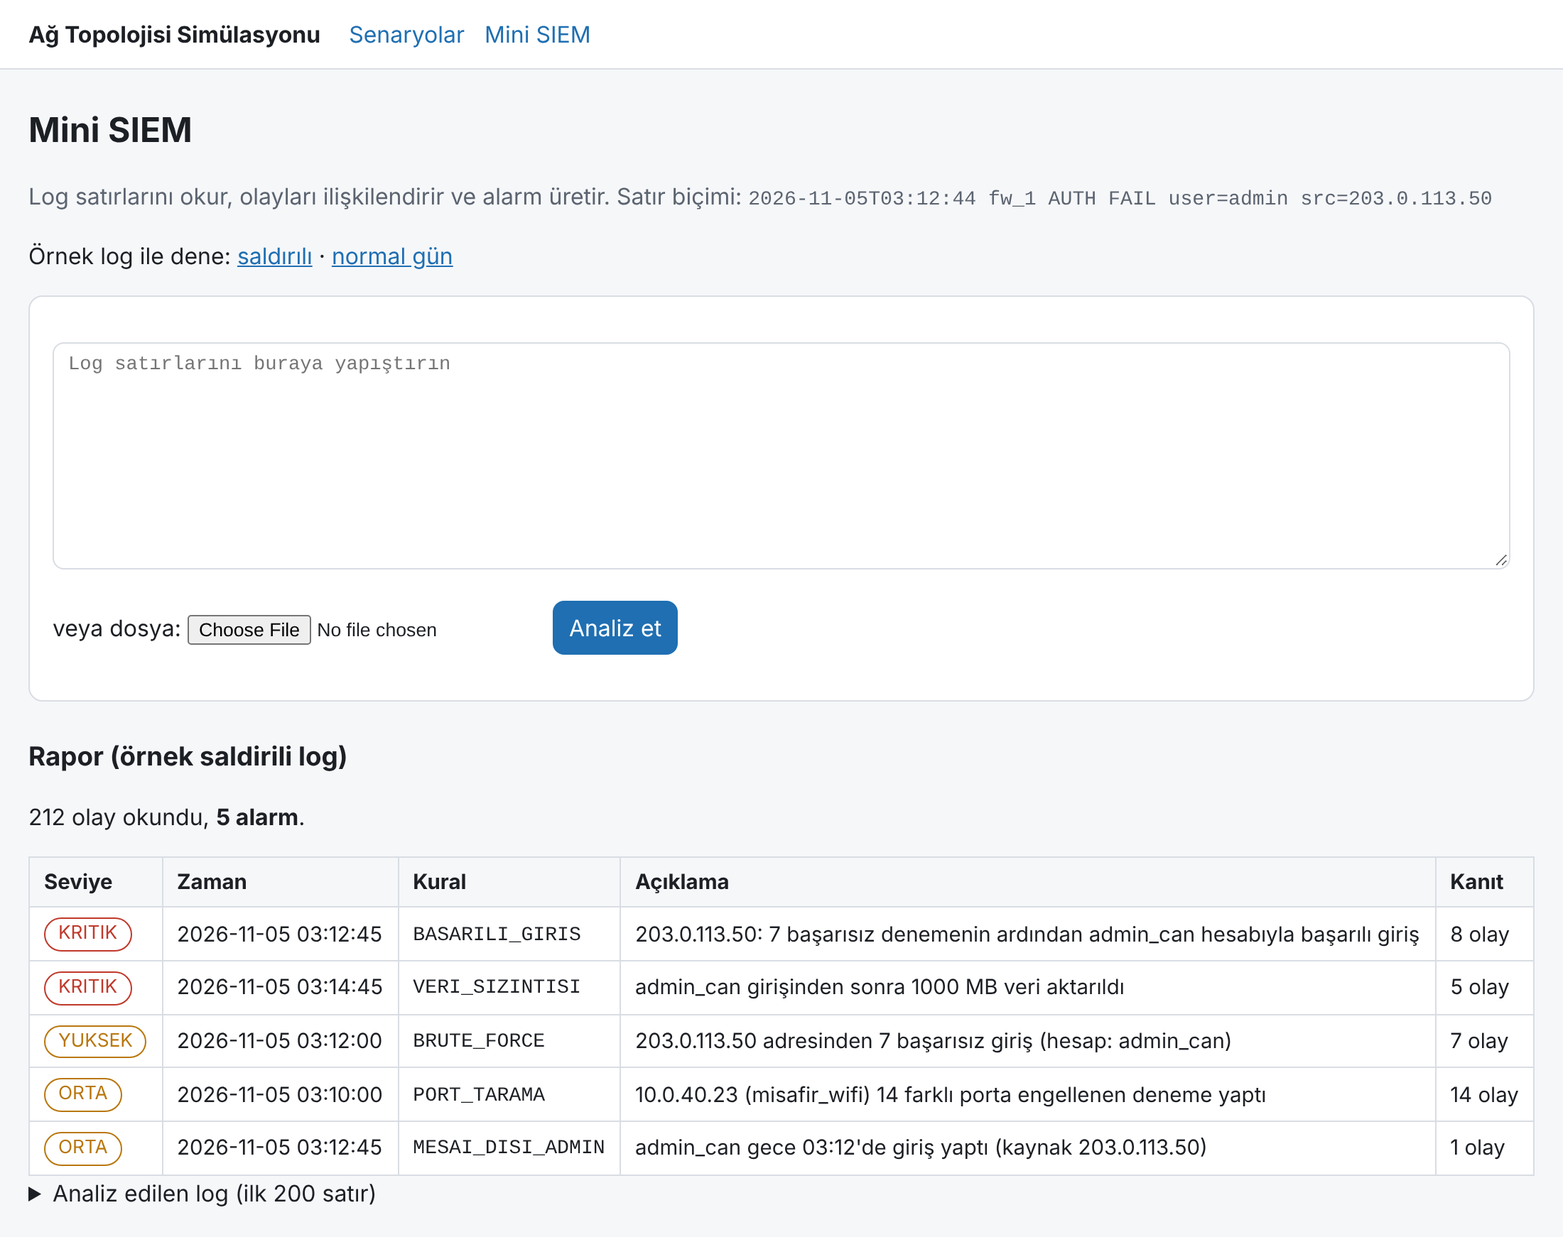
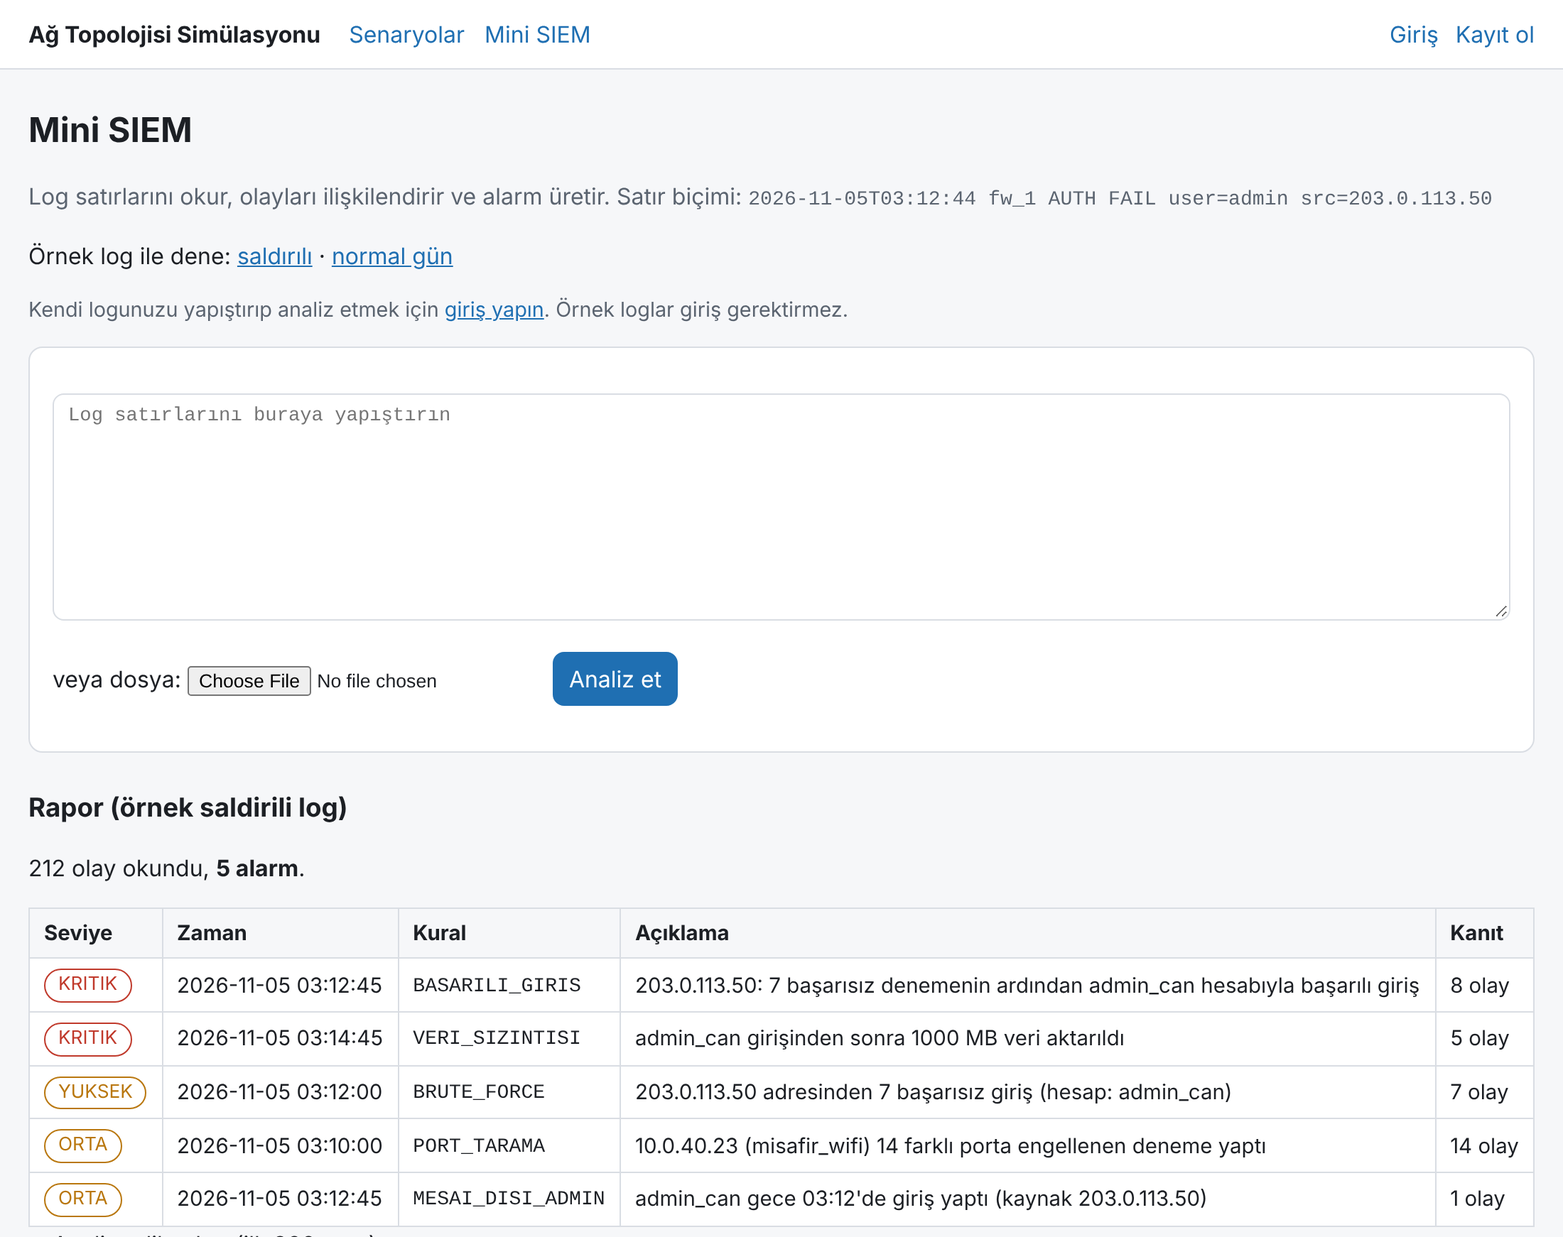
docs: document database, admin, accounts and REST API

diff --git a/README.md b/README.md
@@ -9,18 +9,27 @@ Ağ mimarilerini (ofis, e-ticaret, üniversite, hastane) **graf olarak modelleye
 - **Mini SIEM:** farklı cihazların loglarını okur, olayları ilişkilendirir, alarm üretir.
 - **Mini izleme:** Zabbix mantığıyla, izleme düğümü her cihaza ulaşabiliyor mu?
 - **Django web arayüzü:** hepsini tarayıcıdan dener, diyagramı çizer, bozulan cihazı kırmızı gösterir.
+- **Veritabanı ve admin paneli:** topoloji, kablolar, gereksinimler, VLAN kuralları SQLite'ta tutulur; admin panelinden düzenlenir, yeni senaryo eklenir.
+- **Hesaplar ve geçmiş:** kayıt/giriş vardır; çalıştırılan simülasyonlar kullanıcıya özel geçmişe kaydedilir.
+- **REST API:** aynı hesaplamalar JSON olarak (Django REST framework).
 
 ![Senaryolar sayfası: dört senaryo, her birinin tek hata noktası sayısı](docs/img/ana-sayfa.png)
 
 ## Mimari
 
-Motor (`ag_motoru/`) Django'dan bağımsız saf Python + NetworkX'tir; komut satırı ve Django sadece üstündeki arayüzlerdir.
+Motor (`ag_motoru/`) Django'dan bağımsız saf Python + NetworkX'tir. Komut satırı motoru doğrudan, web arayüzü ve REST API ise `servis.py` üzerinden kullanır; senaryolar veritabanında durur ve `yukle.py` ile motorun grafına çevrilir.
 
 ```mermaid
 flowchart LR
     subgraph arayuz["Arayüzler"]
         cli["main.py<br/>komut satırı"]
-        web["simulasyon/<br/>Django web arayüzü"]
+        web["simulasyon/<br/>web arayüzü + admin"]
+        api["simulasyon/api.py<br/>REST API"]
+    end
+    subgraph katman["Django katmanı"]
+        servis["servis.py<br/>hesaplama ve kayıt"]
+        yukle["yukle.py<br/>veritabanı ↔ motor"]
+        db[("SQLite<br/>senaryolar, kullanıcılar, geçmiş")]
     end
     subgraph motor["ag_motoru/ (saf Python + NetworkX)"]
         modeller["ag_modelleri<br/>4 senaryonun grafı"]
@@ -36,8 +45,13 @@ flowchart LR
     hata --> izleme
     modeller --> diyagram
     loglar -.-> siem
-    cli --> motor
-    web --> motor
+    cli --> modeller
+    web --> servis
+    api --> servis
+    servis --> yukle
+    yukle --> db
+    yukle --> motor
+    servis --> motor
 ```
 
 ## Kurulum
@@ -48,23 +62,30 @@ Windows PowerShell:
 py -m venv .venv
 .\.venv\Scripts\Activate.ps1
 pip install -r requirements.txt
+python manage.py migrate                # veritabanını (db.sqlite3) oluşturur
+python manage.py seed_senaryolar        # dört yerleşik senaryoyu veritabanına yükler
+python manage.py createsuperuser        # admin paneli için (isteğe bağlı)
 python manage.py runserver
 ```
 
-Tarayıcıda `http://127.0.0.1:8000` açılır. Diyagramlar Mermaid ile çizildiği için tarayıcının internete erişebilmesi gerekir (kütüphane CDN'den yüklenir).
+Tarayıcıda `http://127.0.0.1:8000` açılır. `seed_senaryolar` var olan senaryoyu değiştirmez (elle yaptığınız düzenlemeler korunur); kodla yazılmış hâline döndürmek için `python manage.py seed_senaryolar ofis --yenile` çalıştırın. Simülasyon geçmişi `--yenile` ile silinmez. Diyagramlar Mermaid ile çizildiği için tarayıcının internete erişebilmesi gerekir (kütüphane CDN'den yüklenir).
 
 ## Web arayüzü
 
 | Sayfa | Ne yapar |
 |---|---|
 | `/` | Dört senaryo, her biri için tek hata noktası sayısı |
-| `/senaryo/<ad>/` | Topoloji diyagramı, tek hata noktası tablosu, gereksinimler |
-| `/senaryo/<ad>/hata/` | Cihaz/güç kaynağı seç, bozulunca ne koptuğunu gör; bozulanlar diyagramda kırmızı |
-| `/senaryo/<ad>/erisim/` | VLAN matrisi, beklenen engellerin doğrulaması, uçtan uca sorgu |
-| `/senaryo/<ad>/izleme/` | İzleme düğümü gözüyle cihaz durumları |
-| `/siem/` | Log yapıştır ya da yükle, alarmları gör (örnek loglar hazır) |
+| `/senaryo/<kisa-ad>/` | Topoloji diyagramı, tek hata noktası tablosu, gereksinimler |
+| `/senaryo/<kisa-ad>/hata/` | Cihaz/güç kaynağı seç, bozulunca ne koptuğunu gör; bozulanlar diyagramda kırmızı |
+| `/senaryo/<kisa-ad>/erisim/` | VLAN matrisi, beklenen engellerin doğrulaması, uçtan uca sorgu |
+| `/senaryo/<kisa-ad>/izleme/` | İzleme düğümü gözüyle cihaz durumları |
+| `/siem/` | Log yapıştır ya da yükle, alarmları gör (örnek loglar giriş gerektirmez; kendi logunuz için giriş gerekir) |
+| `/gecmis/` | Giriş yapan kullanıcının kayıtlı simülasyonları |
+| `/hesap/giris/`, `/hesap/kayit/` | Giriş ve kayıt |
+| `/admin/` | Senaryo düzenleme (yönetici hesabı) |
+| `/api/` | REST API |
 
-Senaryo adları: `ofis`, `eticaret`, `universite`, `hastane`.
+Yerleşik senaryoların kısa adları: `ofis`, `eticaret`, `universite`, `hastane`. Admin panelinden eklediğiniz senaryo da kendi kısa adıyla aynı sayfalarda açılır.
 
 ### Hata simülasyonu
 
@@ -84,7 +105,51 @@ Saldırılı örnek log: 212 olay, 5 alarm.
 
 ![SIEM sayfası: örnek saldırılı log için 5 alarm](docs/img/siem-raporu.png)
 
+## Veritabanı ve admin paneli
+
+Senaryolar kodda değil veritabanında durur. `/admin/` altında bir senaryoyu açınca cihazlar, kablolar, gereksinimler, izin kuralları ve beklenen engeller tek sayfada düzenlenir; sayfanın üstünde tek hata noktası özeti ve tutarsızlık listesi (bağlantısız cihaz, olmayan bölgeye kural, olmayan izleme düğümü) görünür.
+
+![Admin paneli: senaryo listesi, her senaryo için cihaz, kablo ve merkezi tek hata noktası sayısı](docs/img/admin-liste.png)
+
+Hatalı topoloji kayda girmez: cihaz adı küçük harfle başlayan `a-z0-9_` olmalıdır ve Mermaid'in ayrılmış sözcükleri (`end`, `graph`, ...) yasaktır; bir cihaz kendine bağlanamaz, ters yönde ikinci kablo eklenemez, kablo ve gereksinimde yalnızca aynı senaryonun cihazları seçilebilir; port numaraları 1-65535 olmalıdır. Yeni bir cihaza kablo bağlamak için önce cihazı kaydedin, sonra kablo ekleyin.
+
+Yerleşik dört senaryo, veritabanından yüklendiğinde kodla yazılmış hâliyle birebir aynı graf, gereksinim, kural ve analiz sonucunu verir (bu bir testle doğrulanır).
+
+## Hesaplar ve geçmiş
+
+Kayıt olup giriş yapınca hata, izleme ve erişim sayfalarında **Geçmişe kaydet** düğmesi görünür. Kayıt sırasında sonuç istemciden alınmaz, sunucuda yeniden hesaplanır. SIEM'de kendi logunuzu analiz ettiğinizde sonuç otomatik kaydedilir (logun kendisi saklanmaz, yalnızca kaynak adı, satır sayısı ve alarmlar). Her kullanıcı yalnızca kendi kayıtlarını görür ve silebilir.
+
+![Geçmiş sayfası: kayıtlı hata, izleme, erişim ve SIEM sonuçları](docs/img/gecmis.png)
+
+## REST API
+
+Okuma ve hesaplama uçları herkese açıktır; sonucu kaydetmek, SIEM analizi ve geçmiş giriş ister. Giriş için tarayıcı oturumu ya da HTTP Basic kullanılır.
+
+| Uç | GET | POST |
+|---|---|---|
+| `/api/senaryolar/` | senaryo listesi ve özetleri | |
+| `/api/senaryolar/<kisa-ad>/` | cihazlar, kablolar, gereksinimler, tutarsızlıklar | |
+| `/api/senaryolar/<kisa-ad>/analiz/` | tek hata noktası analizi | |
+| `/api/senaryolar/<kisa-ad>/diyagram/` | Mermaid metni | |
+| `/api/senaryolar/<kisa-ad>/hata/?bozuk=core_1&bozuk=core_2` | hata simülasyonu | aynı hesap + geçmişe kaydet (giriş) |
+| `/api/senaryolar/<kisa-ad>/izleme/?bozuk=...` | izleme durumları | aynı + kaydet (giriş) |
+| `/api/senaryolar/<kisa-ad>/erisim/` | VLAN matrisi; `?kaynak=&hedef=&port=` ile uçtan uca sorgu | sorgu + kaydet (giriş) |
+| `/api/siem/` | | `{"log": "..."}` analiz + kaydet (giriş) |
+| `/api/gecmis/`, `/api/gecmis/<id>/` | kendi kayıtların (`?tur=hata`) | DELETE ile silme |
+
+Bilinmeyen cihaz adı ya da geçersiz port `400` döner; bilinmeyen senaryo `404`.
+
+```powershell
+curl.exe http://127.0.0.1:8000/api/senaryolar/
+curl.exe "http://127.0.0.1:8000/api/senaryolar/hastane/hata/?bozuk=core_1&bozuk=core_2"
+# kaydetmek için giriş gerekir (parolayı curl sorar)
+'{"bozuk": ["core_1", "core_2"]}' | Out-File -Encoding ascii istek.json
+curl.exe -u kullanici -X POST -H "Content-Type: application/json" -d "@istek.json" http://127.0.0.1:8000/api/senaryolar/hastane/hata/
+```
+
 ## Komut satırı
+
+Komut satırı veritabanını kullanmaz; kodla yazılmış dört yerleşik senaryo üzerinde çalışır.
 
 ```powershell
 python main.py hata hastane                          # tek hata noktası raporu
@@ -273,7 +338,8 @@ Güç tarafı: `ofis(jenerator=False)` ile jeneratörsüz ofis kurulursa `sebeke
 - Güç modeli "kaynaklardan biri yeter" mantığındadır; UPS'in dayanma süresi, ATS gecikmesi gibi zaman boyutu yoktur.
 - VLAN politikası bölge düzeyindedir; cihaz bazında kural yoktur.
 - SIEM eşikleri örnek değerlerdir, gerçek bir ağın trafiğine göre ayarlanmalıdır.
-- Web arayüzü yerel kullanım içindir: `SECRET_KEY` geliştirme anahtarıdır, kimlik doğrulama yoktur. Başka bir ortamda `DJANGO_SECRET_KEY` ve `DJANGO_DEBUG=0` ortam değişkenleriyle çalıştırın.
+- Web arayüzü ve API yerel kullanım içindir: `SECRET_KEY` geliştirme anahtarıdır, herkes kayıt olabilir, HTTP Basic kimlik bilgisi şifrelenmeden gider ve istek sınırlaması yoktur. Başka bir ortamda `DJANGO_SECRET_KEY`, `DJANGO_DEBUG=0` ve `ALLOWED_HOSTS` ayarlarıyla, HTTPS arkasında çalıştırın.
+- Komut satırı veritabanındaki senaryoları değil, kodla yazılmış dört senaryoyu kullanır; admin panelinde yapılan düzenleme komut satırına yansımaz.
 
 ## Proje yapısı
 
@@ -286,7 +352,15 @@ ag_motoru/                 Django'dan bağımsız simülasyon motoru
   mini_izleme.py           izleme durumu, TCP kontrolü
   mermaid_uret.py          graftan Mermaid diyagramı
   ornek_log_uret.py        örnek log üretici
-simulasyon/                Django uygulaması (görünümler, şablonlar, web testleri)
+simulasyon/                Django uygulaması
+  models.py                senaryo, cihaz, kablo, gereksinim, kural, engel, simülasyon geçmişi
+  yukle.py                 veritabanı <-> motor dönüşümü
+  servis.py                hesaplama ve geçmişe kayıt (web ve API ortak kullanır)
+  views.py, urls.py        web sayfaları, giriş/kayıt, geçmiş
+  api.py, api_urls.py      REST API
+  admin.py                 senaryo düzenleme paneli
+  management/commands/     seed_senaryolar komutu
+  templates/, tests/       şablonlar ve testler
 config/                    Django ayarları
 tests/                     motor testleri (pytest)
 ornek_loglar/              normal.log, saldirili.log
@@ -299,7 +373,7 @@ main.py                    komut satırı arayüzü
 
 ```powershell
 python -m pytest -q          # motor: 60 test
-python manage.py test        # web arayüzü: 23 test
+python manage.py test        # web, admin, API, hesap ve veritabanı: 106 test
 ```
 
 Testler ayrıca "yedekli senaryoda merkezi tek hata noktası yok", "iki core birden düşünce kopar", "kablo yolu var ama politika engeller", "sunucu içinden geçiş yok" gibi mimari beklentileri doğrular.

diff --git a/README.en.md b/README.en.md
@@ -9,6 +9,9 @@ A Python project that **models network architectures as graphs** (office, e-comm
 - **Mini SIEM:** reads logs from different devices, correlates events and raises alarms.
 - **Mini monitoring:** Zabbix-style check of whether the monitoring node can reach every device.
 - **Django web interface:** try everything in the browser, see the diagram with failed devices marked in red.
+- **Database and admin panel:** topology, cables, requirements and VLAN rules are stored in SQLite; edit them or add new scenarios in the admin panel.
+- **Accounts and history:** sign-up and login; the simulations you run are saved to a per-user history.
+- **REST API:** the same computations as JSON (Django REST framework).
 
 ![Scenarios page: four scenarios with their single-point-of-failure counts](docs/img/ana-sayfa.png)
 
@@ -16,13 +19,19 @@ A Python project that **models network architectures as graphs** (office, e-comm
 
 ## Architecture
 
-The engine (`ag_motoru/`) is pure Python + NetworkX and independent of Django. The command line and Django are only interfaces on top of it.
+The engine (`ag_motoru/`) is pure Python + NetworkX and independent of Django. The command line uses the engine directly; the web UI and the REST API go through `servis.py`. Scenarios live in the database and `yukle.py` turns them into the engine's graph.
 
 ```mermaid
 flowchart LR
     subgraph arayuz["Interfaces"]
         cli["main.py<br/>command line"]
-        web["simulasyon/<br/>Django web UI"]
+        web["simulasyon/<br/>web UI + admin"]
+        api["simulasyon/api.py<br/>REST API"]
+    end
+    subgraph katman["Django layer"]
+        servis["servis.py<br/>computation and saving"]
+        yukle["yukle.py<br/>database ↔ engine"]
+        db[("SQLite<br/>scenarios, users, history")]
     end
     subgraph motor["ag_motoru/ (pure Python + NetworkX)"]
         modeller["ag_modelleri<br/>graphs of 4 scenarios"]
@@ -38,8 +47,13 @@ flowchart LR
     hata --> izleme
     modeller --> diyagram
     loglar -.-> siem
-    cli --> motor
-    web --> motor
+    cli --> modeller
+    web --> servis
+    api --> servis
+    servis --> yukle
+    yukle --> db
+    yukle --> motor
+    servis --> motor
 ```
 
 ## Setup
@@ -50,23 +64,30 @@ Windows PowerShell:
 py -m venv .venv
 .\.venv\Scripts\Activate.ps1
 pip install -r requirements.txt
+python manage.py migrate                # creates the database (db.sqlite3)
+python manage.py seed_senaryolar        # loads the four built-in scenarios into the database
+python manage.py createsuperuser        # for the admin panel (optional)
 python manage.py runserver
 ```
 
-Open `http://127.0.0.1:8000` in a browser. Diagrams are drawn with Mermaid, so the browser needs internet access (the library is loaded from a CDN).
+Open `http://127.0.0.1:8000` in a browser. `seed_senaryolar` does not change a scenario that already exists (your manual edits are kept); to reset one to its code-defined form, run `python manage.py seed_senaryolar ofis --yenile`. `--yenile` does not delete simulation history. Diagrams are drawn with Mermaid, so the browser needs internet access (the library is loaded from a CDN).
 
 ## Web interface
 
 | Page | What it does |
 |---|---|
 | `/` | The four scenarios, with the single-point-of-failure count for each |
-| `/senaryo/<name>/` | Topology diagram, single-point-of-failure table, requirements |
-| `/senaryo/<name>/hata/` | Pick devices or power sources, see what breaks; failed devices turn red in the diagram |
-| `/senaryo/<name>/erisim/` | VLAN matrix, verification of the expected denials, end-to-end query |
-| `/senaryo/<name>/izleme/` | Device states as seen by the monitoring node |
-| `/siem/` | Paste or upload logs, see alarms (sample logs included) |
+| `/senaryo/<slug>/` | Topology diagram, single-point-of-failure table, requirements |
+| `/senaryo/<slug>/hata/` | Pick devices or power sources, see what breaks; failed devices turn red in the diagram |
+| `/senaryo/<slug>/erisim/` | VLAN matrix, verification of the expected denials, end-to-end query |
+| `/senaryo/<slug>/izleme/` | Device states as seen by the monitoring node |
+| `/siem/` | Paste or upload logs, see alarms (sample logs need no login; your own logs require login) |
+| `/gecmis/` | The signed-in user's saved simulations |
+| `/hesap/giris/`, `/hesap/kayit/` | Login and sign-up |
+| `/admin/` | Scenario editing (admin account) |
+| `/api/` | REST API |
 
-Scenario names: `ofis` (office), `eticaret` (e-commerce), `universite` (university), `hastane` (hospital).
+Slugs of the built-in scenarios: `ofis` (office), `eticaret` (e-commerce), `universite` (university), `hastane` (hospital). A scenario you add in the admin panel opens on the same pages under its own slug.
 
 ### Failure simulation
 
@@ -86,7 +107,51 @@ Sample attack log: 212 events, 5 alarms.
 
 ![SIEM page: 5 alarms for the sample attack log](docs/img/siem-raporu.png)
 
+## Database and admin panel
+
+Scenarios live in the database, not in code. Open a scenario under `/admin/` and edit its devices, cables, requirements, allow rules and expected denials on one page; the top of the page shows a single-point-of-failure summary and a list of inconsistencies (a device with no cable, a rule for a zone with no devices, a missing monitoring node).
+
+![Admin panel: scenario list with device, cable and central single-point-of-failure counts](docs/img/admin-liste.png)
+
+Invalid topology cannot be saved: a device name must start with a lowercase letter and use only `a-z0-9_`, and Mermaid reserved words (`end`, `graph`, ...) are rejected; a device cannot connect to itself, a second cable in the reverse direction cannot be added, only devices of the same scenario can be picked for cables and requirements, and port numbers must be 1-65535. To cable a new device, save the device first, then add the cable.
+
+When the four built-in scenarios are loaded from the database they give exactly the same graph, requirements, rules and analysis results as the code-defined versions (a test verifies this).
+
+## Accounts and history
+
+After signing in, the failure, monitoring and access pages show a **Geçmişe kaydet** (save to history) button. The result is not taken from the client; it is recomputed on the server when saved. When you analyse your own log in the SIEM page, the result is saved automatically (the log itself is not stored, only the source name, line count and alarms). Each user sees and deletes only their own records.
+
+![History page: saved failure, monitoring, access and SIEM results](docs/img/gecmis.png)
+
+## REST API
+
+Read and compute endpoints are public; saving a result, SIEM analysis and history require login. Authentication is a browser session or HTTP Basic.
+
+| Endpoint | GET | POST |
+|---|---|---|
+| `/api/senaryolar/` | scenario list and summaries | |
+| `/api/senaryolar/<slug>/` | devices, cables, requirements, inconsistencies | |
+| `/api/senaryolar/<slug>/analiz/` | single-point-of-failure analysis | |
+| `/api/senaryolar/<slug>/diyagram/` | Mermaid text | |
+| `/api/senaryolar/<slug>/hata/?bozuk=core_1&bozuk=core_2` | failure simulation | same computation + save to history (login) |
+| `/api/senaryolar/<slug>/izleme/?bozuk=...` | monitoring states | same + save (login) |
+| `/api/senaryolar/<slug>/erisim/` | VLAN matrix; end-to-end query with `?kaynak=&hedef=&port=` | query + save (login) |
+| `/api/siem/` | | `{"log": "..."}` analyse + save (login) |
+| `/api/gecmis/`, `/api/gecmis/<id>/` | your own records (`?tur=hata`) | DELETE to remove |
+
+An unknown device name or an invalid port returns `400`; an unknown scenario returns `404`.
+
+```powershell
+curl.exe http://127.0.0.1:8000/api/senaryolar/
+curl.exe "http://127.0.0.1:8000/api/senaryolar/hastane/hata/?bozuk=core_1&bozuk=core_2"
+# saving requires login (curl asks for the password)
+'{"bozuk": ["core_1", "core_2"]}' | Out-File -Encoding ascii istek.json
+curl.exe -u username -X POST -H "Content-Type: application/json" -d "@istek.json" http://127.0.0.1:8000/api/senaryolar/hastane/hata/
+```
+
 ## Command line
+
+The command line does not use the database; it works on the four built-in scenarios defined in code.
 
 ```powershell
 python main.py hata hastane                          # single-point-of-failure report
@@ -275,7 +340,8 @@ On the power side: if you build the office with `ofis(jenerator=False)` (no gene
 - The power model is "any one source is enough"; there is no time dimension such as UPS runtime or ATS delay.
 - VLAN policy works at zone level; there are no per-device rules.
 - SIEM thresholds are sample values and must be tuned to the traffic of a real network.
-- The web interface is for local use: `SECRET_KEY` is a development key and there is no authentication. In any other environment, run it with the `DJANGO_SECRET_KEY` and `DJANGO_DEBUG=0` environment variables.
+- The web interface and API are for local use: `SECRET_KEY` is a development key, anyone can sign up, HTTP Basic credentials are sent unencrypted and there is no rate limiting. In any other environment, set `DJANGO_SECRET_KEY`, `DJANGO_DEBUG=0` and `ALLOWED_HOSTS`, and run behind HTTPS.
+- The command line uses the four code-defined scenarios, not the ones in the database; edits made in the admin panel do not show up there.
 
 ## Project structure
 
@@ -288,7 +354,15 @@ ag_motoru/                 simulation engine, independent of Django
   mini_izleme.py           monitoring state, TCP check
   mermaid_uret.py          Mermaid diagram from the graph
   ornek_log_uret.py        sample log generator
-simulasyon/                Django app (views, templates, web tests)
+simulasyon/                Django app
+  models.py                scenario, device, cable, requirement, rule, denial, simulation history
+  yukle.py                 database <-> engine conversion
+  servis.py                computation and saving to history (shared by web and API)
+  views.py, urls.py        web pages, login/sign-up, history
+  api.py, api_urls.py      REST API
+  admin.py                 scenario editing panel
+  management/commands/     seed_senaryolar command
+  templates/, tests/       templates and tests
 config/                    Django settings
 tests/                     engine tests (pytest)
 ornek_loglar/              normal.log, saldirili.log
@@ -301,7 +375,7 @@ main.py                    command-line interface
 
 ```powershell
 python -m pytest -q          # engine: 60 tests
-python manage.py test        # web interface: 23 tests
+python manage.py test        # web, admin, API, accounts and database: 106 tests
 ```
 
 The tests also verify architectural expectations such as "no central single point of failure in the redundant scenarios", "it breaks when both cores fail", "cable path exists but the policy blocks it" and "no transit through servers".
